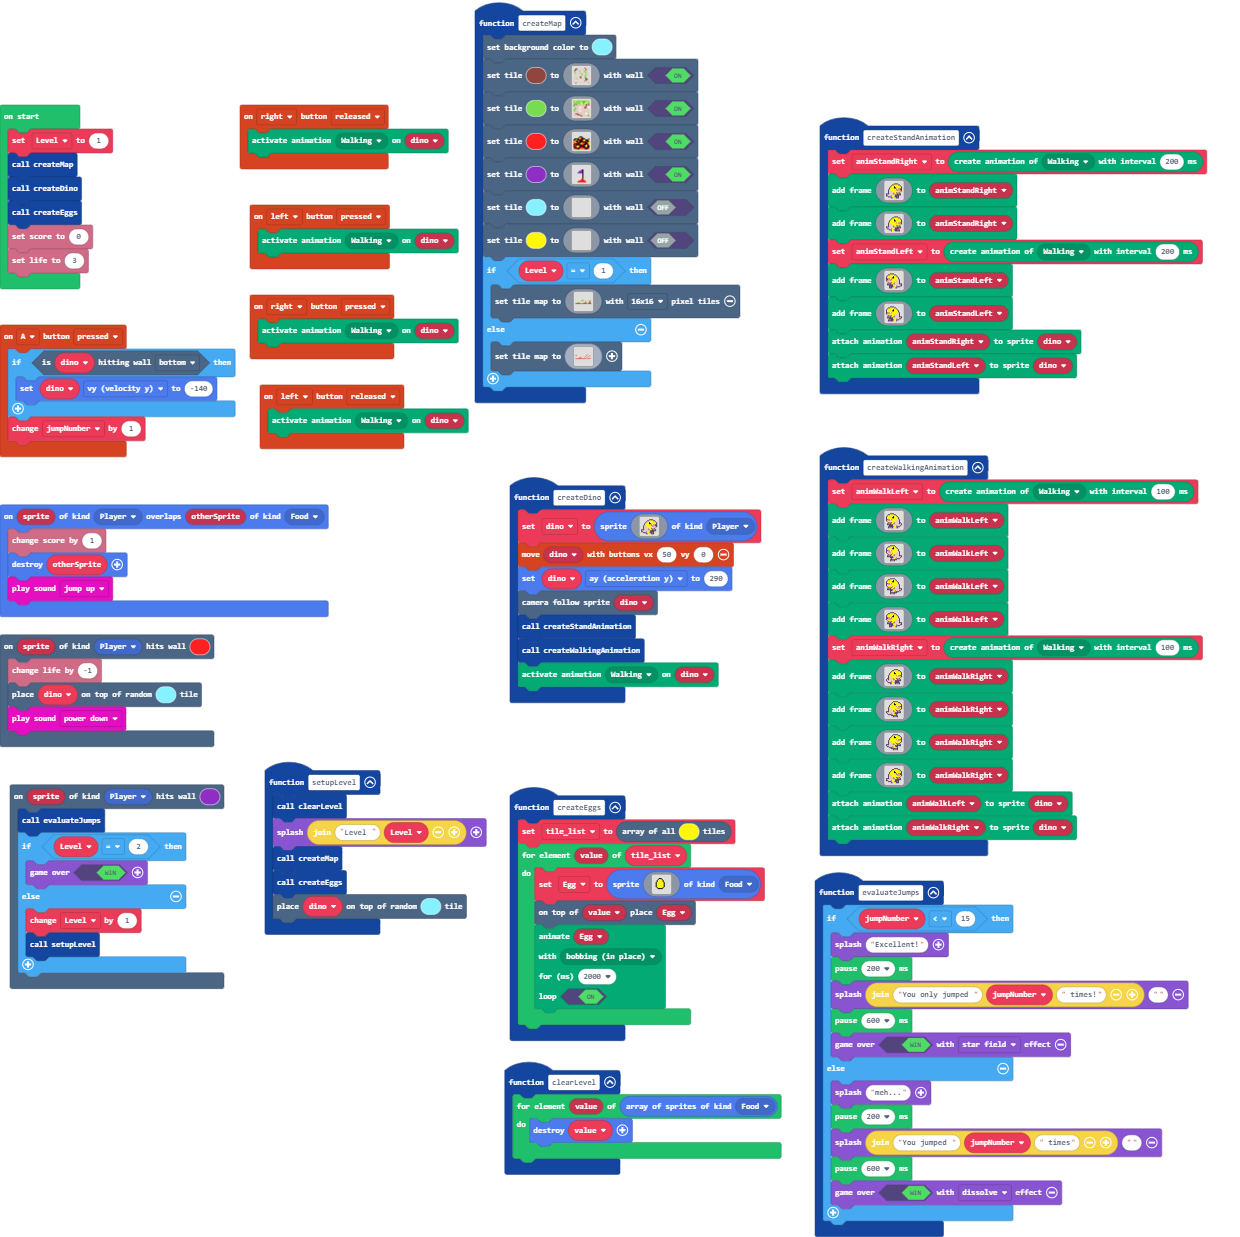
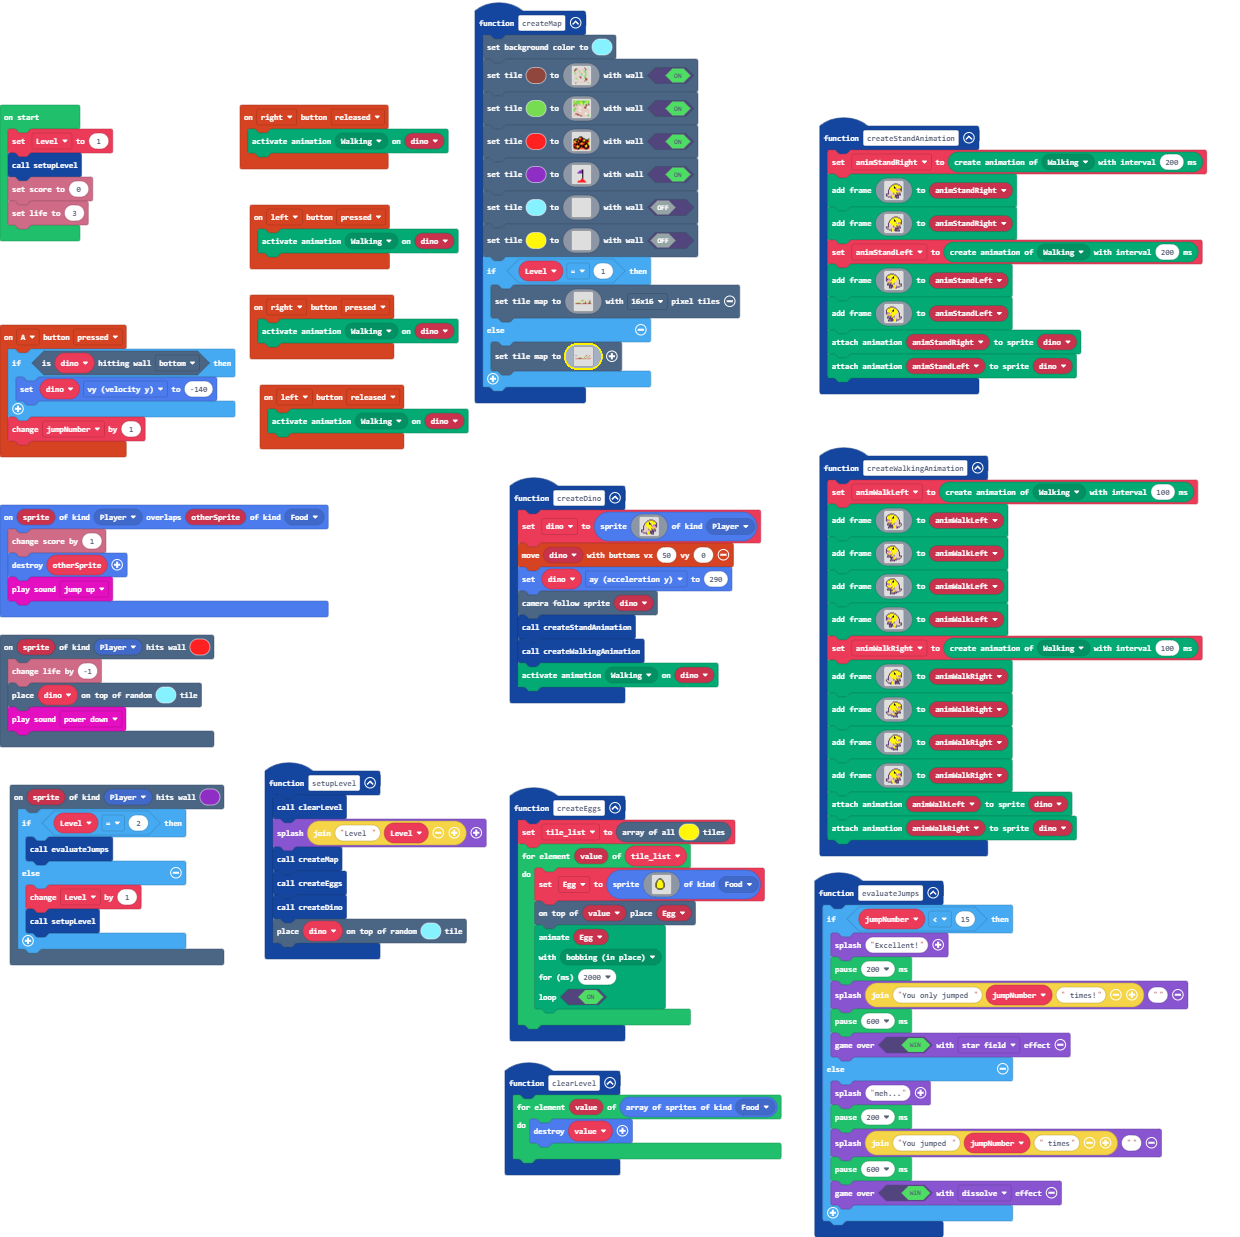
made some functions and stuff

diff --git a/main.ts b/main.ts
@@ -12,6 +12,7 @@ function setupLevel () {
     game.splash("Level " + Level)
     createMap()
     createEggs()
+    createDino()
     scene.placeOnRandomTile(dino, 9)
 }
 function createStandAnimation () {
@@ -221,12 +222,12 @@ function createMap () {
             .......................e....5...
             ......................e.........
             eee.............5.....e..5..ee..
-            ........5............e.....2....
-            ....................e.5..72.....
-            ........2.........e2....2.......
-            ......5.72ee.....7....77.......7
-            ......e.e.....5........5....a.2.
-            22222ee2e22222e222222e77222272..
+            .....................e.....2....
+            ........5...........e.5..72.....
+            ..................e2....2.......
+            ......5.7277.....7....77.......7
+            ......e.eeee..5........5....a.2.
+            22222ee2eeee22ee22222e77222272..
             `)
     }
 }
@@ -240,9 +241,8 @@ controller.left.onEvent(ControllerButtonEvent.Pressed, function () {
     animation.setAction(dino, ActionKind.walkingLeft)
 })
 scene.onHitTile(SpriteKind.Player, 10, function (sprite) {
-    evaluateJumps()
     if (Level == 2) {
-        game.over(true)
+        evaluateJumps()
     } else {
         Level += 1
         setupLevel()
@@ -503,8 +503,6 @@ let animStandRight: animation.Animation = null
 let dino: Sprite = null
 let Level = 0
 Level = 1
-createMap()
-createDino()
-createEggs()
+setupLevel()
 info.setScore(0)
 info.setLife(3)
